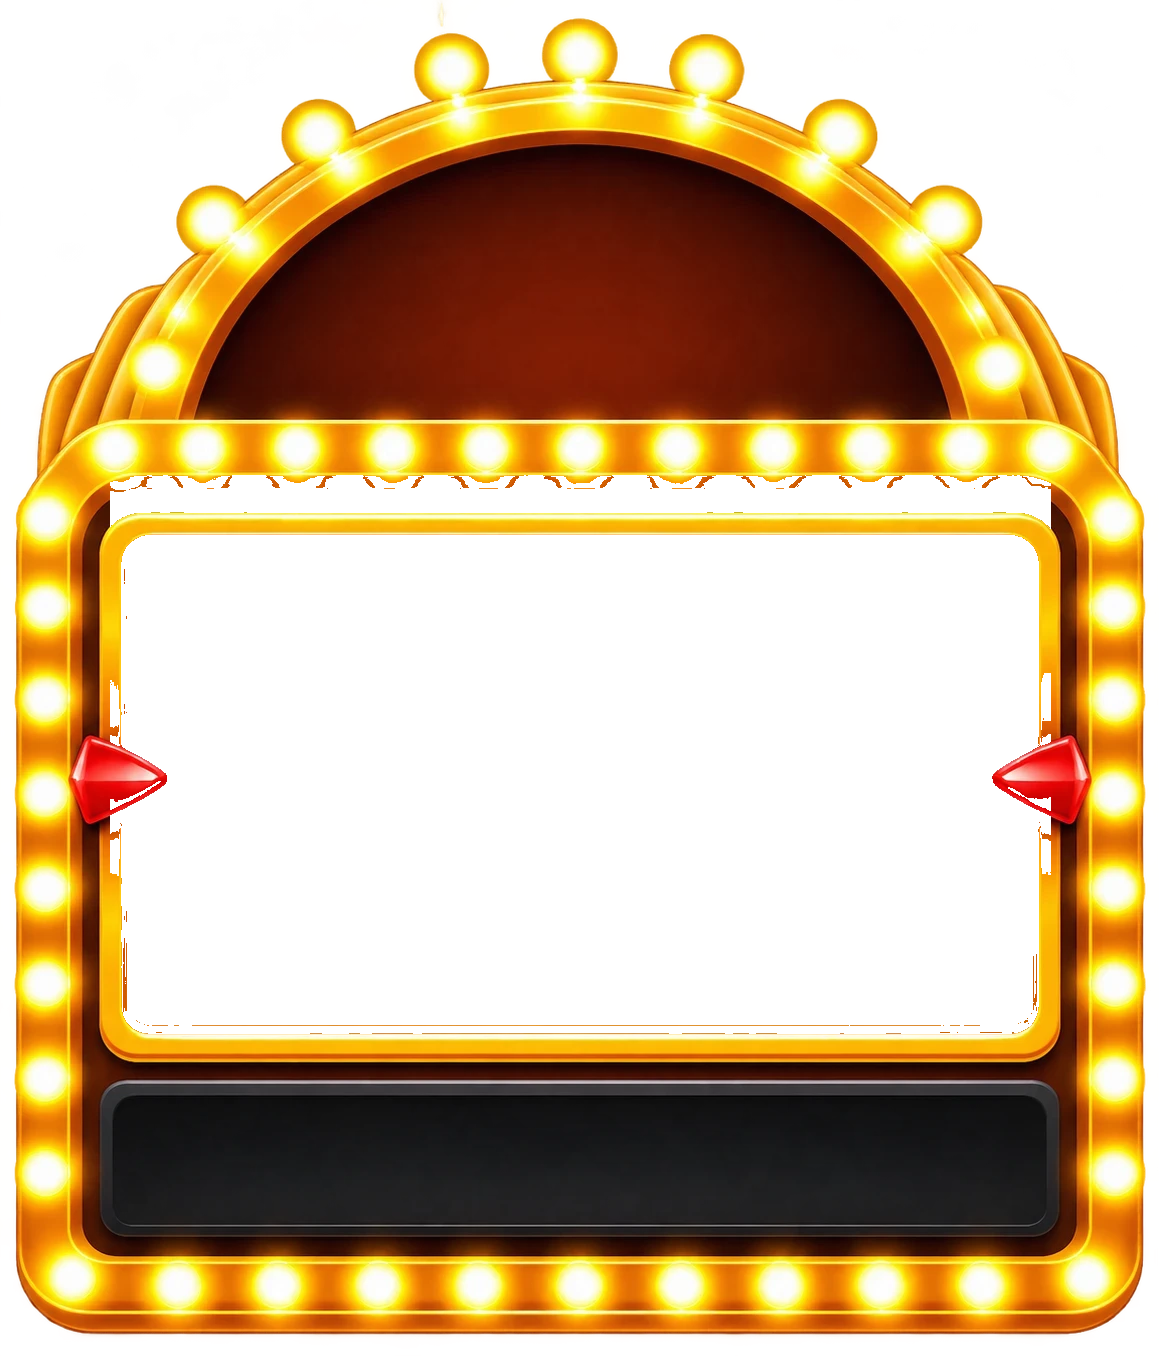
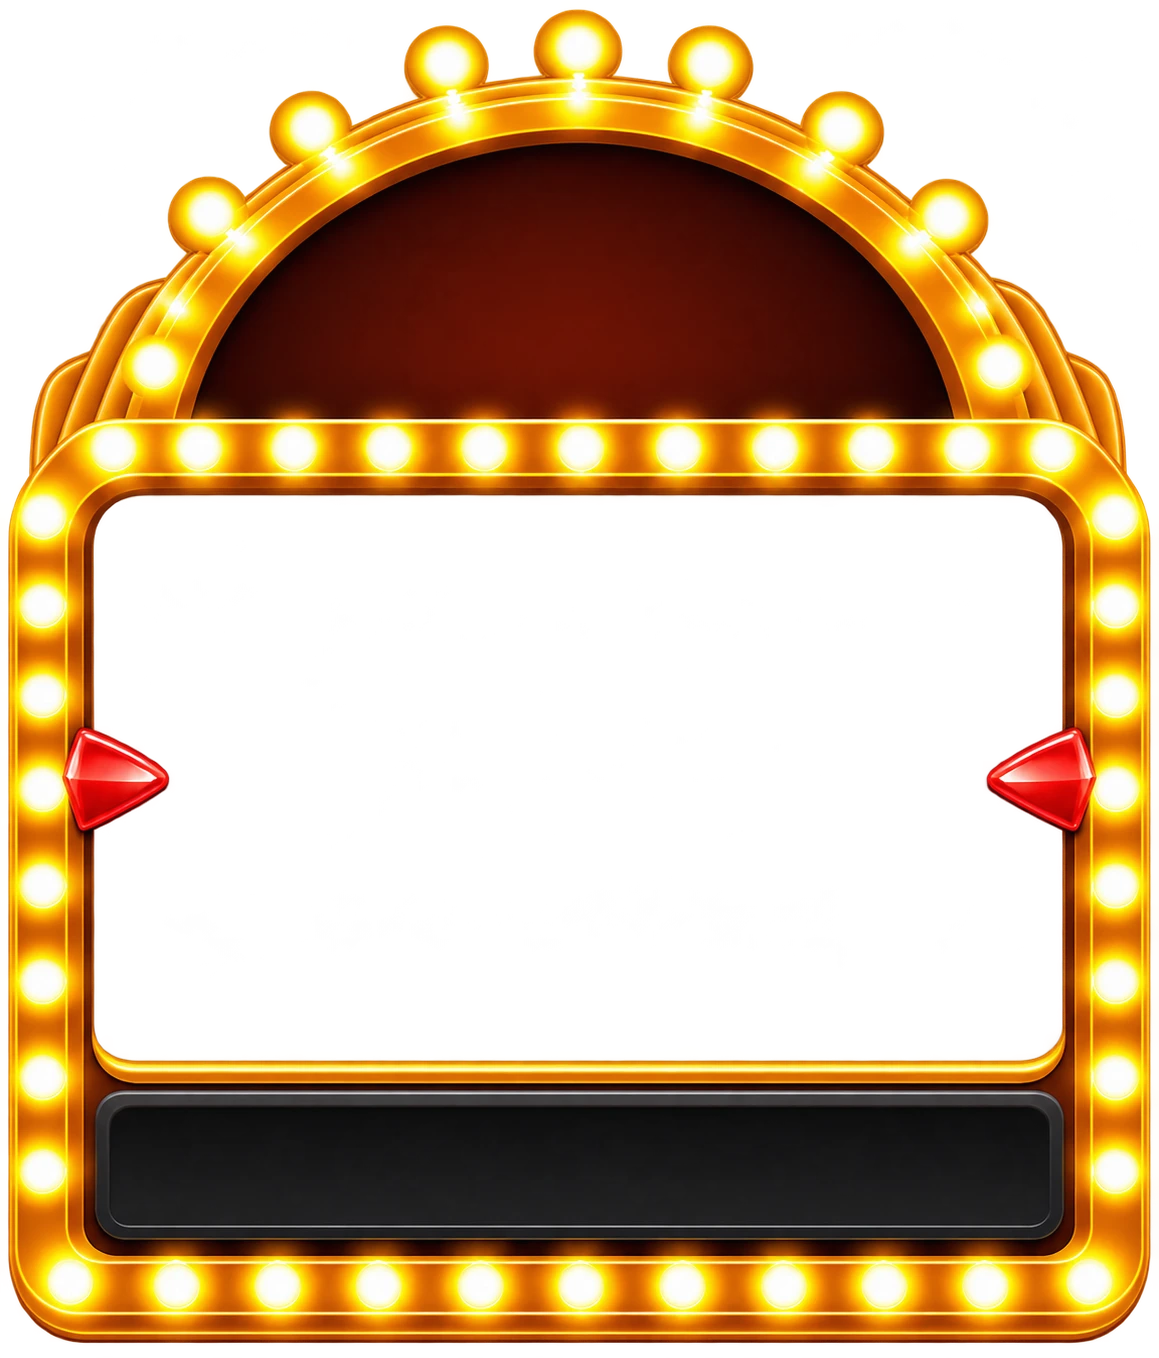
Use clean transparent frame image for slot machine
Replaced manually processed frame with a proper transparent PNG/WebP
that has clean alpha transparency. Removed the dark background
pseudo-element (no longer needed). Adjusted reel area positioning
to match the new frame's golden border inner edges.

Changed region(s): [[0.0, 0.0, 0.994, 0.9912]]

diff --git a/styles.css b/styles.css
@@ -1350,17 +1350,6 @@ img { max-width: 100%; display: block; }
   margin: 0.5rem auto;
   max-width: 420px;
 }
-.slot-machine-wrap::before {
-  content: '';
-  position: absolute;
-  top: 34%;
-  left: 9%;
-  right: 9%;
-  bottom: 23%;
-  background: #1a0800;
-  border-radius: 6px;
-  z-index: 0;
-}
 .slot-frame-img {
   width: 100%;
   display: block;
@@ -1370,10 +1359,10 @@ img { max-width: 100%; display: block; }
 }
 .slot-reels-area {
   position: absolute;
-  top: 41%;
-  left: 12%;
-  right: 12%;
-  bottom: 28%;
+  top: 37%;
+  left: 9%;
+  right: 9%;
+  bottom: 23%;
   z-index: 1;
   display: flex;
   align-items: center;

diff --git a/index.html b/index.html
@@ -13,7 +13,7 @@
   <link rel="preconnect" href="https://fonts.googleapis.com">
   <link rel="preconnect" href="https://fonts.gstatic.com" crossorigin>
   <link href="https://fonts.googleapis.com/css2?family=Inter:wght@400;500;600;700;800;900&display=swap" rel="stylesheet">
-  <link rel="stylesheet" href="styles.css?v=121">
+  <link rel="stylesheet" href="styles.css?v=122">
 </head>
 <body>
 
